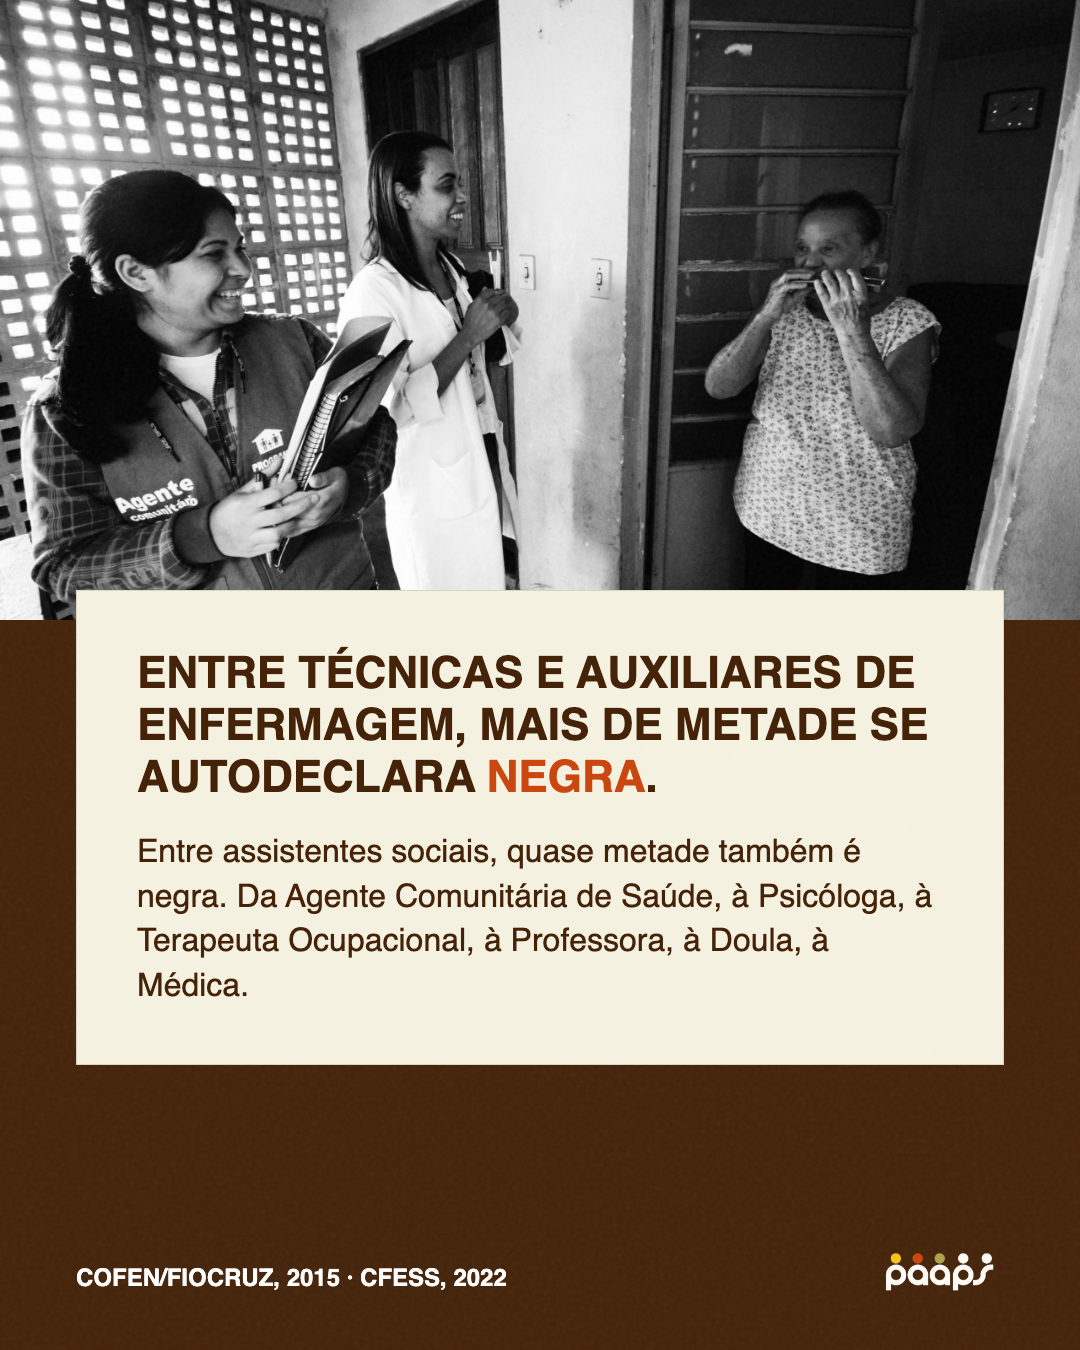
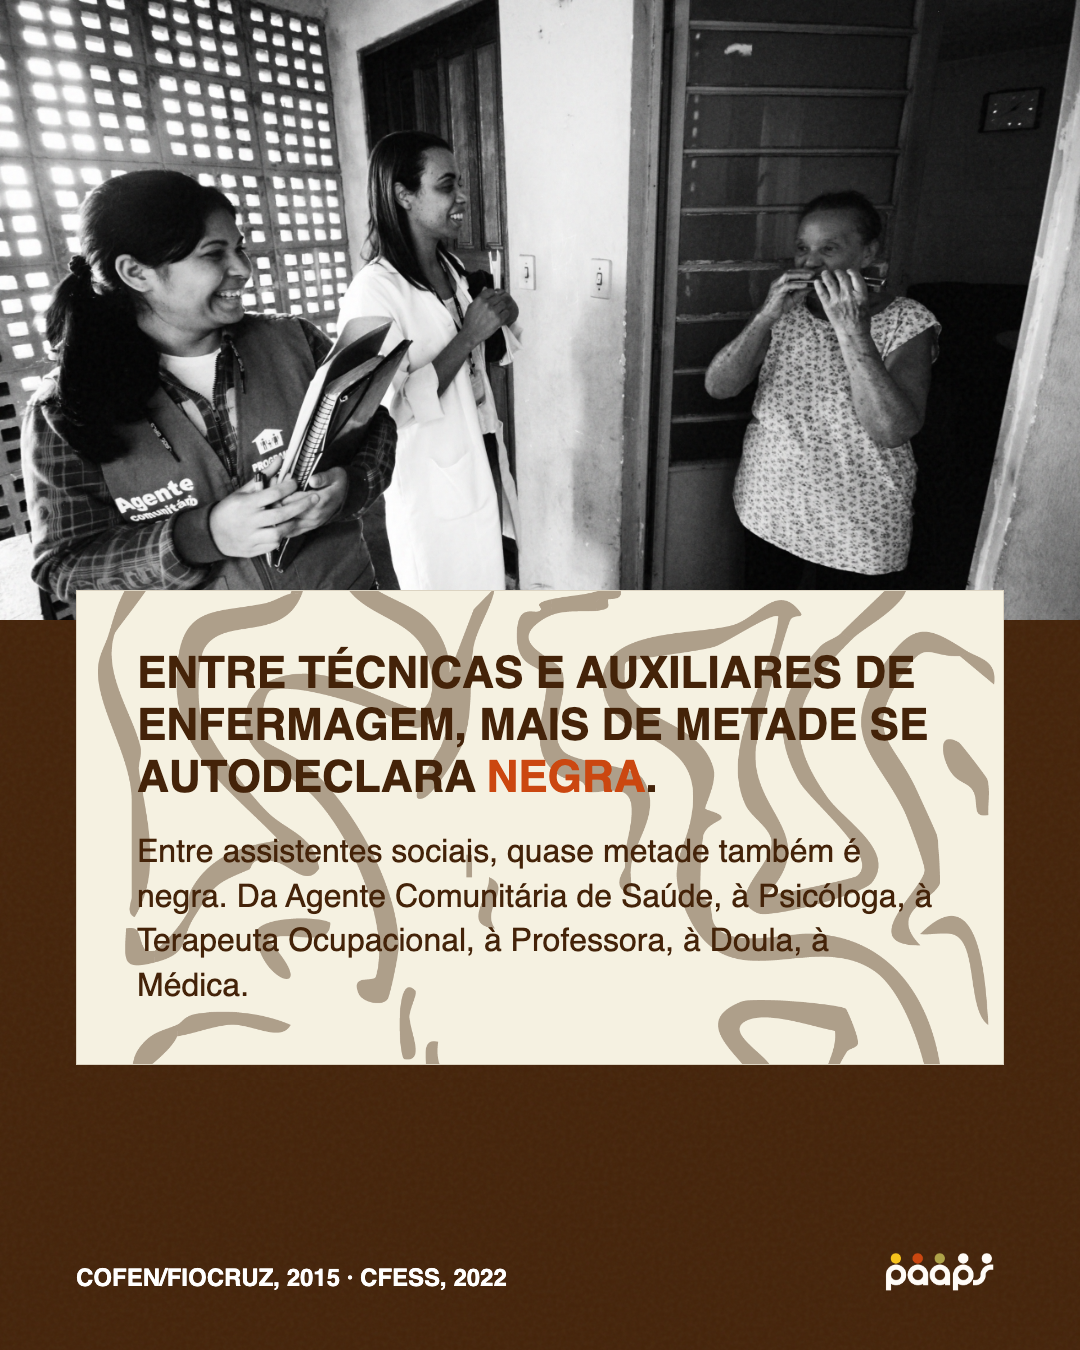
auto: conteudo, sessoes - 2026-08-30 20:48

diff --git a/conteudo/PARA-APROVAR-mulheres-no-cuidado/montagem-30-08/index.html b/conteudo/PARA-APROVAR-mulheres-no-cuidado/montagem-30-08/index.html
@@ -34,11 +34,14 @@
   .foto{position:absolute;left:0;width:1080px;object-fit:cover;z-index:0;}
 
   /* véu chapado, uniforme — nunca gradiente. Opacidade varia por slide via style inline. */
-  .escurecer{position:absolute;inset:0;z-index:1;background:var(--cor-marrom);}
+  .escurecer{position:absolute;inset:0;z-index:1;background:#000;}
 
-  /* textura de marca — Textura 2, ~4-5% opacidade, nunca disputa com a letra */
+  /* textura de marca — Textura 2. O PNG já embute ~25% de opacidade no próprio arquivo
+     (marrom sobre transparente / branco sobre transparente); a opacidade CSS fica em 1,
+     nunca reduzir de novo por cima, senão some. Marrom vai em fundo claro; branco vai em
+     fundo escuro. */
   .textura{position:absolute;inset:0;z-index:1;pointer-events:none;
-           background-repeat:no-repeat;background-position:center;background-size:220% auto;opacity:0.045;}
+           background-repeat:no-repeat;background-position:center;background-size:cover;opacity:0.4;}
   .textura--marrom{background-image:url('texturas/textura-marrom.png');}
   .textura--branco{background-image:url('texturas/textura-branco.png');}
 
@@ -58,12 +61,12 @@
 
   /* SLIDE 1 — CAPA */
   #s1 .foto{top:0;height:1350px;object-position:22% 82%;filter:saturate(1.05);}
-  #s1 .escurecer{background:rgba(68,35,9,0.42);}
+  #s1 .escurecer{background:rgba(0,0,0,0.42);}
   #s1 .conteudo{justify-content:flex-end;padding-bottom:190px;gap:24px;}
 
   /* SLIDE 2 — AFIRMAÇÃO */
   #s2 .foto{top:0;height:1350px;object-position:70% 60%;}
-  #s2 .escurecer{background:rgba(68,35,9,0.32);}
+  #s2 .escurecer{background:rgba(0,0,0,0.32);}
   #s2 .conteudo{justify-content:flex-end;padding-bottom:190px;gap:26px;}
 
   /* SLIDE 3 — DADO EM CARD */
@@ -83,7 +86,7 @@
 
   /* SLIDE 4 — CITAÇÃO */
   #s4 .foto{top:0;height:1350px;object-position:75% 20%;}
-  #s4 .escurecer{background:rgba(68,35,9,0.65);}
+  #s4 .escurecer{background:rgba(0,0,0,0.65);}
   #s4 .conteudo{justify-content:center;gap:34px;}
   #s4 .aspa{font-family:var(--fonte-label);font-size:120px;color:var(--cor-amarelo);line-height:0.5;font-weight:800;}
   #s4 .citacao{font-size:44px;font-weight:700;line-height:1.42;}
@@ -113,7 +116,7 @@
 
   /* SLIDE 8 — PERGUNTA + CTA institucional */
   #s8 .foto{top:0;height:1350px;object-position:75% 15%;}
-  #s8 .escurecer{background:rgba(68,35,9,0.55);}
+  #s8 .escurecer{background:rgba(0,0,0,0.55);}
   #s8 .conteudo{justify-content:flex-end;padding-bottom:270px;gap:16px;}
   #s8 .abertura{font-family:var(--fonte-titulo);font-weight:400;font-size:30px;color:rgba(255,255,255,0.88);}
   #s8 .pergunta{font-size:54px;font-weight:700;line-height:1.28;}
@@ -152,7 +155,7 @@
 <section class="slide" id="s3">
   <img class="foto" src="fotos/slide3.jpg">
   <div class="card">
-    <div class="textura textura--branco"></div>
+    <div class="textura textura--marrom"></div>
     <div class="headline-media">ENTRE TÉCNICAS E AUXILIARES DE ENFERMAGEM, MAIS DE METADE SE AUTODECLARA <span class="amarelo">NEGRA</span>.</div>
     <div class="corpo">Entre assistentes sociais, quase metade também é negra. Da Agente Comunitária de Saúde, à Psicóloga, à Terapeuta Ocupacional, à Professora, à Doula, à Médica.</div>
   </div>
@@ -164,7 +167,7 @@
 <section class="slide" id="s3b">
   <img class="foto" src="fotos/slide3.jpg">
   <div class="card">
-    <div class="textura textura--marrom"></div>
+    <div class="textura textura--branco"></div>
     <div class="headline-media">ENTRE TÉCNICAS E AUXILIARES DE ENFERMAGEM, MAIS DE METADE SE AUTODECLARA <span class="amarelo">NEGRA</span>.</div>
     <div class="corpo">Entre assistentes sociais, quase metade também é negra. Da Agente Comunitária de Saúde, à Psicóloga, à Terapeuta Ocupacional, à Professora, à Doula, à Médica.</div>
   </div>
@@ -195,7 +198,7 @@
 
 <!-- SLIDE 6 : A VIRADA -->
 <section class="slide" id="s6">
-  <div class="textura textura--marrom"></div>
+  <div class="textura textura--branco"></div>
   <div class="conteudo">
     <div class="aspa">&ldquo;</div>
     <div class="citacao">O trabalho delas só entra para os indicadores depois que custou uma <span class="amarelo amarelo-sub">licença</span>.</div>
@@ -207,7 +210,7 @@
 <!-- SLIDE 7 : NÚMERO GIGANTE -->
 <section class="slide" id="s7">
   <img class="foto" src="fotos/slide7.jpg">
-  <div class="area-dado"><div class="textura textura--marrom"></div></div>
+  <div class="area-dado"><div class="textura textura--branco"></div></div>
   <div class="conteudo">
     <div class="numero">75%</div>
     <div class="headline-media">do trabalho de cuidado não remunerado no mundo é feito por mulheres</div>

diff --git a/sessoes/sessao-2026-08-30.md b/sessoes/sessao-2026-08-30.md
@@ -194,3 +194,17 @@ D  codigo/site/paaps-site/sobre/index.html
 ?? conteudo/PARA-APROVAR-mulheres-no-cuidado/montagem-30-08/texturas/
 ```
 
+
+## 20:48
+```
+ M conteudo/PARA-APROVAR-mulheres-no-cuidado/montagem-30-08/export/slide-01.png
+ M conteudo/PARA-APROVAR-mulheres-no-cuidado/montagem-30-08/export/slide-02.png
+ M conteudo/PARA-APROVAR-mulheres-no-cuidado/montagem-30-08/export/slide-03a.png
+ M conteudo/PARA-APROVAR-mulheres-no-cuidado/montagem-30-08/export/slide-03b.png
+ M conteudo/PARA-APROVAR-mulheres-no-cuidado/montagem-30-08/export/slide-04.png
+ M conteudo/PARA-APROVAR-mulheres-no-cuidado/montagem-30-08/export/slide-06.png
+ M conteudo/PARA-APROVAR-mulheres-no-cuidado/montagem-30-08/export/slide-07.png
+ M conteudo/PARA-APROVAR-mulheres-no-cuidado/montagem-30-08/export/slide-08.png
+ M conteudo/PARA-APROVAR-mulheres-no-cuidado/montagem-30-08/index.html
+```
+
